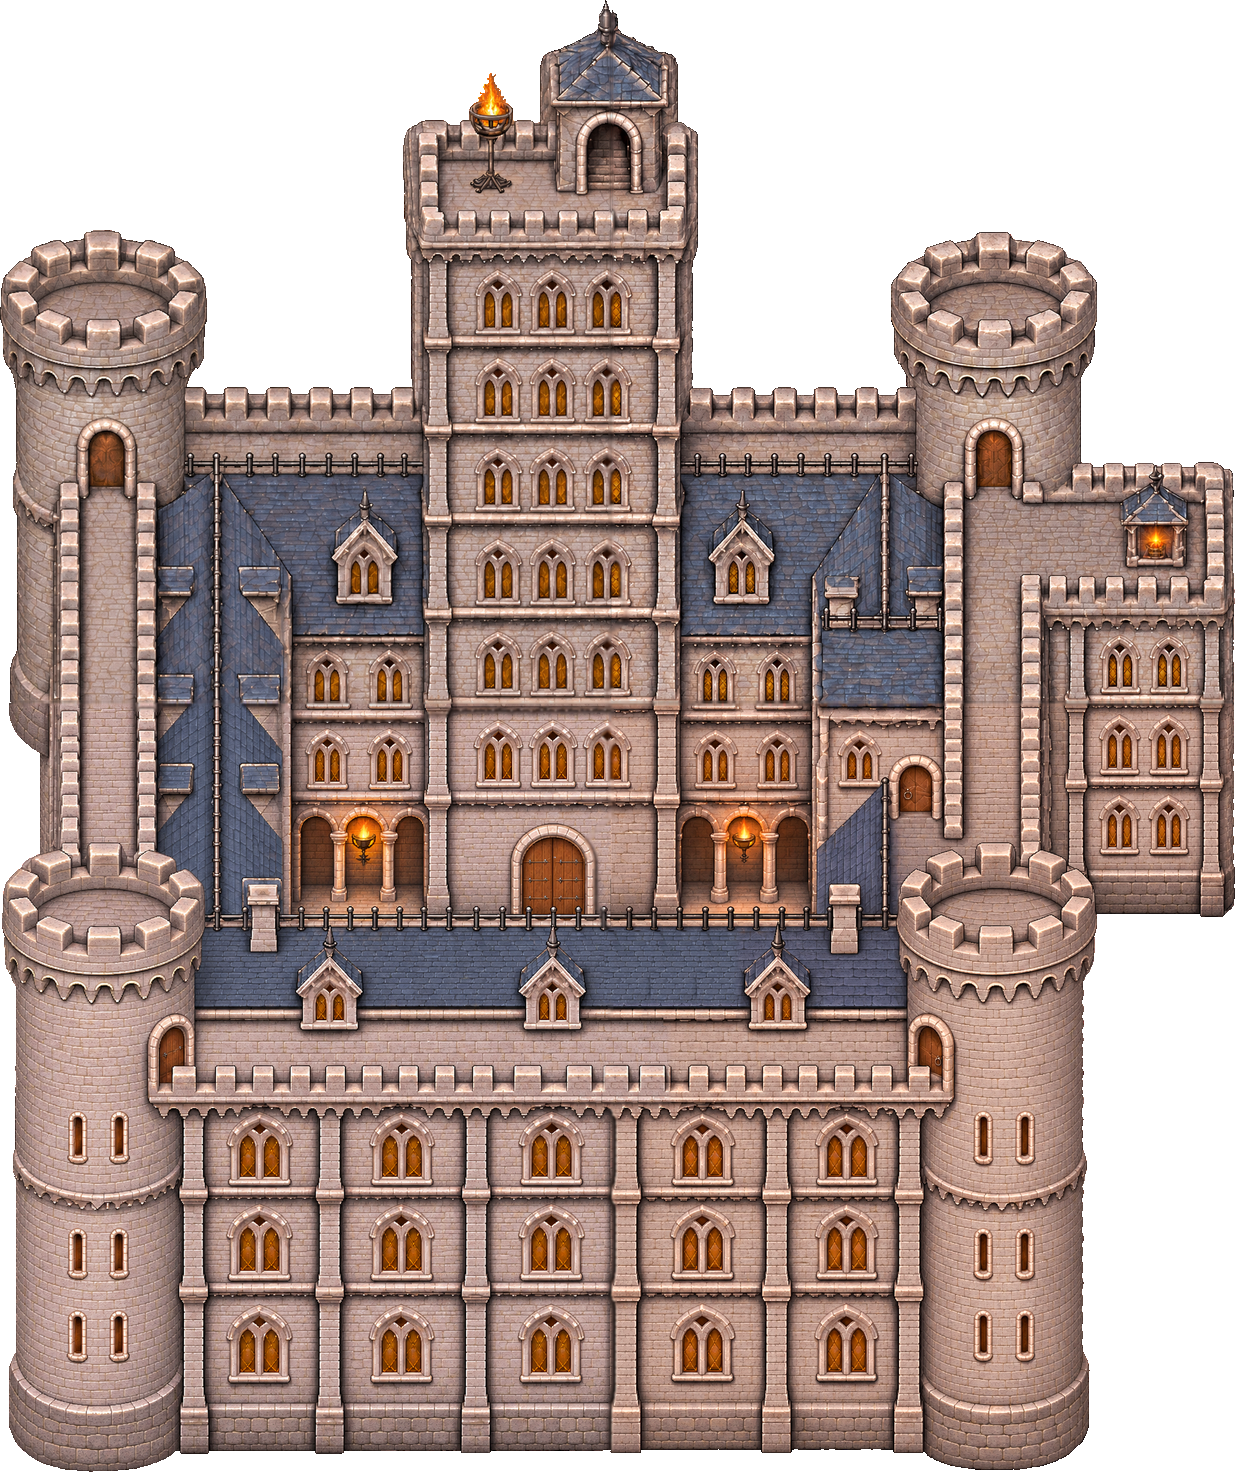
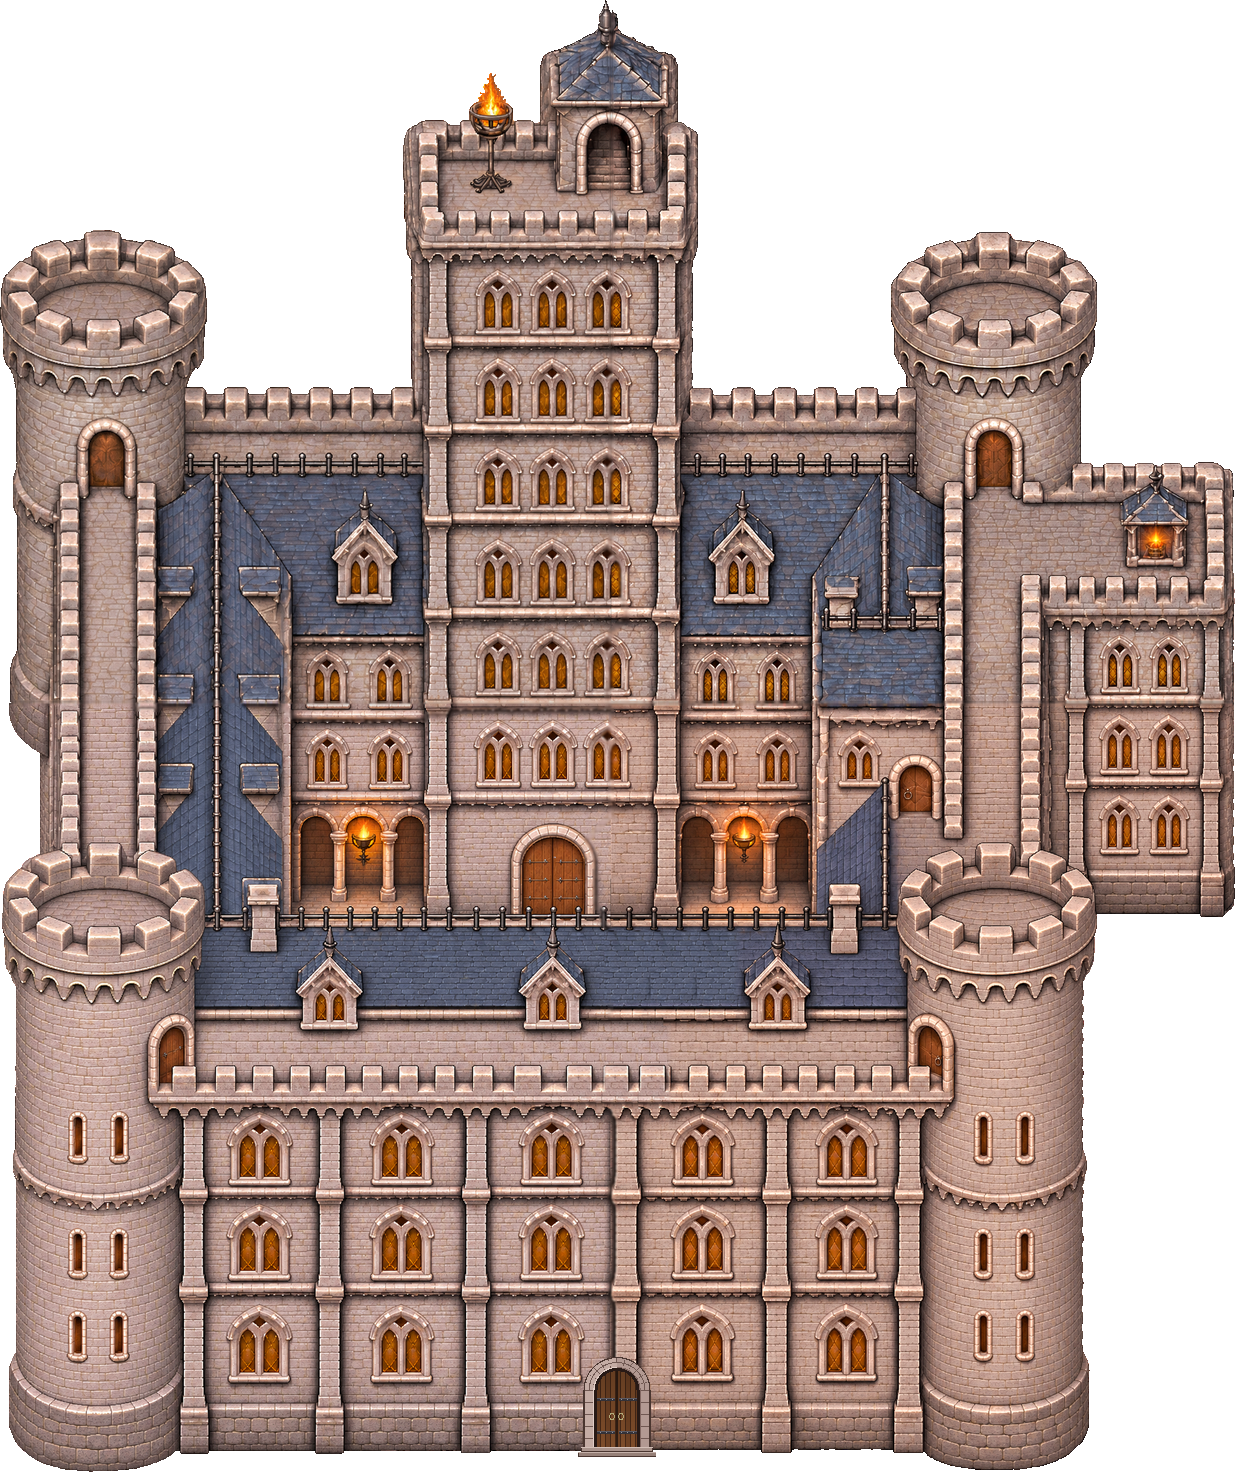
Holdfast: visible front portal (arched oak door + steps) and E trigger at its foot
Claude-Session: https://claude.ai/code/session_01GSamoHXsCumctgS8PFsM3M

diff --git a/tools/holdfast_door.py b/tools/holdfast_door.py
@@ -1,0 +1,72 @@
+"""Front portal of the Holdfast, drawn pixel by pixel (stone arch, recessed oak double door with iron straps and studs,
+two steps). Composited onto the Holdfast sprite by tools/build_keep_buildings.py, centred on the facade with its
+bottom step on the building's ground line, so Kael has a door to walk up to.  draw_door() -> RGBA uint8 array."""
+import numpy as np
+
+W, H = 78, 104          # whole portal incl. steps
+def draw_door():
+    a = np.zeros((H, W, 4), np.uint8)
+    def put(x, y, c):
+        if 0 <= x < W and 0 <= y < H:
+            a[y, x, :3] = c; a[y, x, 3] = 255
+    cx = W / 2 - 0.5
+    STEP = 10                                   # two steps at the bottom
+    top_frame = 4
+    R_out, R_in = 33, 22                        # arch radii (outer frame, door opening)
+    spring = top_frame + R_out                  # y where the arch springs
+    base = H - STEP                             # door threshold
+    stone = [(196, 172, 164), (178, 153, 146), (160, 135, 128)]
+    mortar = (112, 88, 82)
+    dark_edge = (74, 54, 48)
+    for y in range(top_frame, base):
+        for x in range(W):
+            dx = x - cx
+            if y < spring:
+                d = np.hypot(dx, y - spring)
+                if d > R_out + 0.5: continue
+                ring = d > R_in + 0.5
+            else:
+                if abs(dx) > R_out + 0.5: continue
+                ring = abs(dx) > R_in + 0.5
+            if ring:
+                # voussoirs on the arch, ashlar blocks on the jambs
+                if y < spring:
+                    ang = np.degrees(np.arctan2(spring - y, dx))
+                    joint = (int(ang) % 15 == 0) or abs(d - (R_in + 6)) < 0.5
+                    shade = 0 if dx < 0 else 1
+                else:
+                    joint = ((y - spring) % 12 == 0) or (abs(abs(dx) - (R_in + 6)) < 0.5 and ((y - spring) // 12) % 2 == 0)
+                    shade = 0 if dx < 0 else 1
+                c = mortar if joint else stone[shade]
+                edge = (y < spring and d > R_out - 0.6) or (y >= spring and abs(dx) > R_out - 0.6)
+                if edge: c = dark_edge
+                if (y < spring and R_in + 0.5 < d < R_in + 1.6) or (y >= spring and R_in + 0.5 < abs(dx) < R_in + 1.6):
+                    c = (226, 206, 198) if dx < 0 else (130, 104, 98)   # lit / shaded reveal of the opening
+                put(x, y, c)
+            else:
+                # recessed oak double door
+                inner_spring = spring
+                dd = np.hypot(dx, y - inner_spring) if y < inner_spring else abs(dx)
+                if dd > R_in - 2.5:
+                    put(x, y, (40, 26, 22)); continue                     # deep shadow of the recess
+                plank = int((x - (cx - R_in)) // 5)
+                base_c = np.array([118, 72, 40]) if plank % 2 else np.array([104, 62, 34])
+                if int(x - (cx - R_in)) % 5 == 0: base_c = np.array([66, 38, 22])
+                if abs(dx) < 1.0: base_c = np.array([46, 28, 18])          # meeting line of the two leaves
+                t = (y - top_frame) / (base - top_frame)
+                base_c = base_c * (0.82 + 0.25 * t)                       # darker at the top, inside the arch
+                for sy in (spring + 8, base - 16):                        # iron hinge straps
+                    if sy <= y <= sy + 2 and abs(dx) > 2: base_c = np.array([52, 50, 56]) if y != sy else np.array([92, 90, 98])
+                if (y in (spring + 9, base - 15)) and int(abs(dx)) % 6 == 4: base_c = np.array([150, 148, 156])  # studs
+                put(x, y, tuple(np.clip(base_c, 0, 255).astype(int)))
+    for k, (lx, ly) in enumerate(((cx - 5, spring + 26), (cx + 4, spring + 26))):   # ring handles
+        for t in np.linspace(0, 2 * np.pi, 20):
+            put(int(round(lx + 2.5 * np.cos(t))), int(round(ly + 3 * np.sin(t))), (176, 168, 120))
+    # steps: lower step wider than the upper one
+    for i, (hw, c, cl) in enumerate(((R_out + 2, (170, 148, 140), (210, 190, 182)), (R_out + 6, (150, 128, 120), (196, 176, 168)))):
+        y0 = base + i * 5
+        for y in range(y0, y0 + 5):
+            for x in range(int(cx - hw), int(cx + hw) + 2):
+                col = cl if y == y0 else (dark_edge if y == y0 + 4 or x in (int(cx - hw), int(cx + hw) + 1) else c)
+                put(x, y, col)
+    return a

diff --git a/tools/build_keep_buildings.py b/tools/build_keep_buildings.py
@@ -128,10 +128,25 @@ y1 = 2445
 while (ringd[y1 - h:y1, x0:x0 + w] & foot).any():
     y1 += 4
 pos = (x0, y1 - h)
+# front portal (tools/holdfast_door.py): centred on the facade, bottom step 4 px below the ground line of that column
+import sys; sys.path.insert(0, os.path.dirname(os.path.abspath(__file__)))
+from holdfast_door import draw_door
+dr = draw_door(); dh, dw = dr.shape[:2]
+gcx = w // 2
+gy = int(np.where(img[:, gcx, 3] > 0)[0].max())
+img = np.vstack([img, np.zeros((8, w, 4), np.uint8)])          # room for the steps below the old base
+dy0, dx0 = gy + 5 - dh, gcx - dw // 2
+reg_ = img[dy0:dy0 + dh, dx0:dx0 + dw]
+m_ = dr[..., 3] > 0
+reg_[m_] = dr[m_]
+h = img.shape[0]
+yy, xx = np.indices((h, w))
+foot = (img[..., 3] > 0) & (yy >= TOP)
+DOOR = [pos[0] + gcx, pos[1] + gy + 18]                          # where Kael stands to press E
 Image.fromarray(img).save(os.path.join(OUT, 'holdfast.png'))
-col_mask = ndimage.binary_opening(foot & ~ringd[pos[1]:pos[1] + h, pos[0]:pos[0] + w], iterations=2)
+col_mask = ndimage.binary_opening(foot & ~ringd[pos[1]:pos[1] + h, pos[0]:pos[0] + w] & (yy <= gy), iterations=2)
 data['holdfast'] = {'name': 'The Holdfast', 'image': 'res://art/game/keep/holdfast.png', 'pos': pos, 'size': [w, h],
-                    'collision': polys(col_mask, pos[0], pos[1], 1.0), 'z_line': pos[1] + TOP,
+                    'collision': polys(col_mask, pos[0], pos[1], 1.0), 'z_line': pos[1] + TOP, 'enter': DOOR,
                     'shadow': bake_shadow(img, pos, 'holdfast', apron=True)}
 # ---------------------------------------------------------------- Throne Hall (plan: rect 760,520 270x150)
 th = np.array(Image.open(os.path.join(SRC, 'throne_hall_src.png')).convert('RGBA'))
